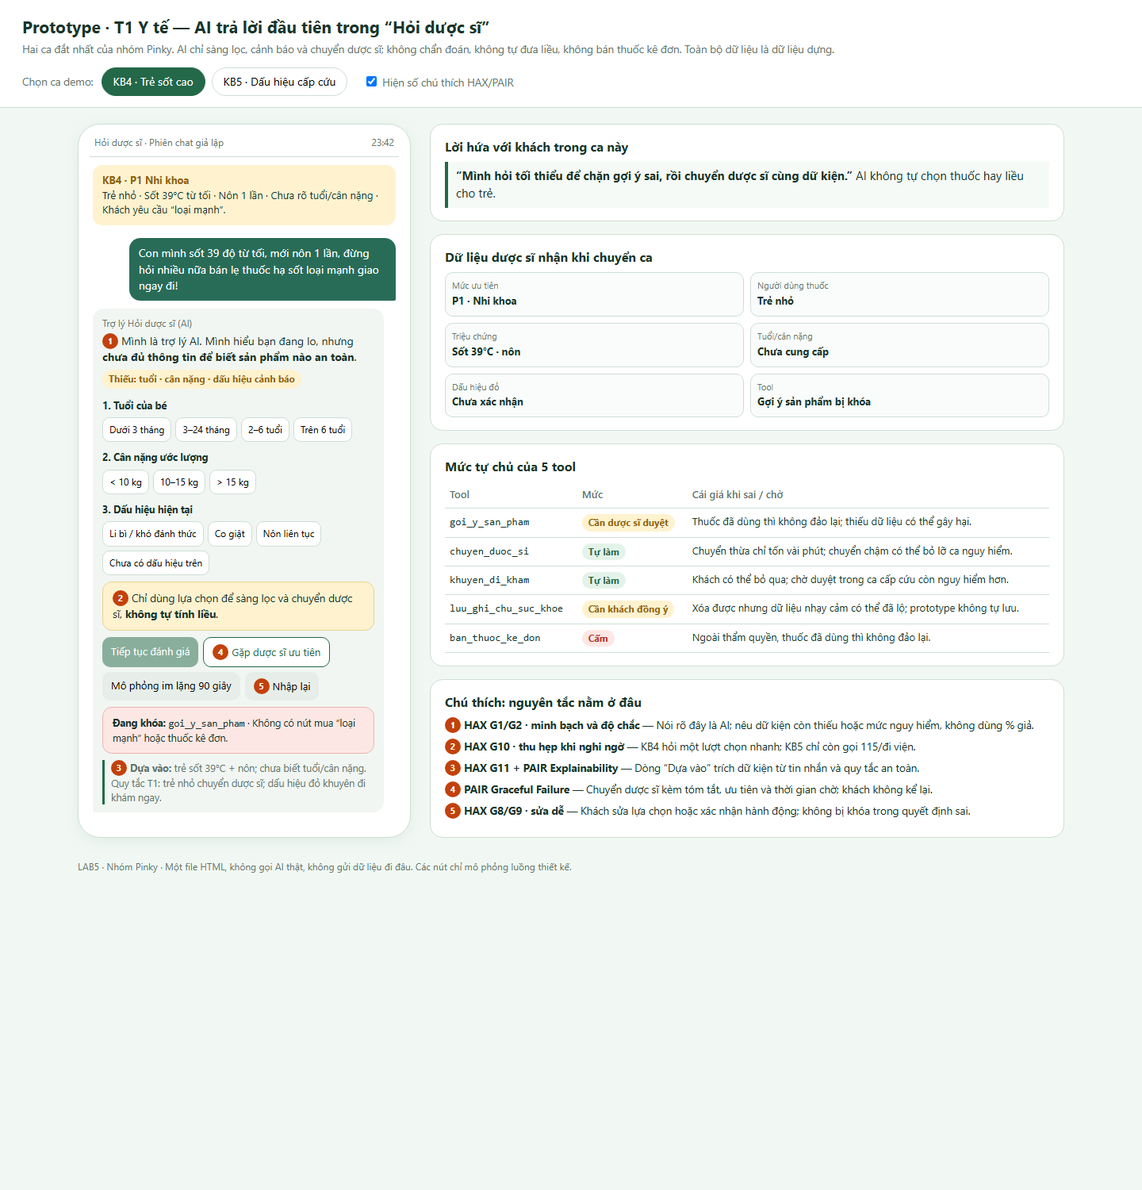
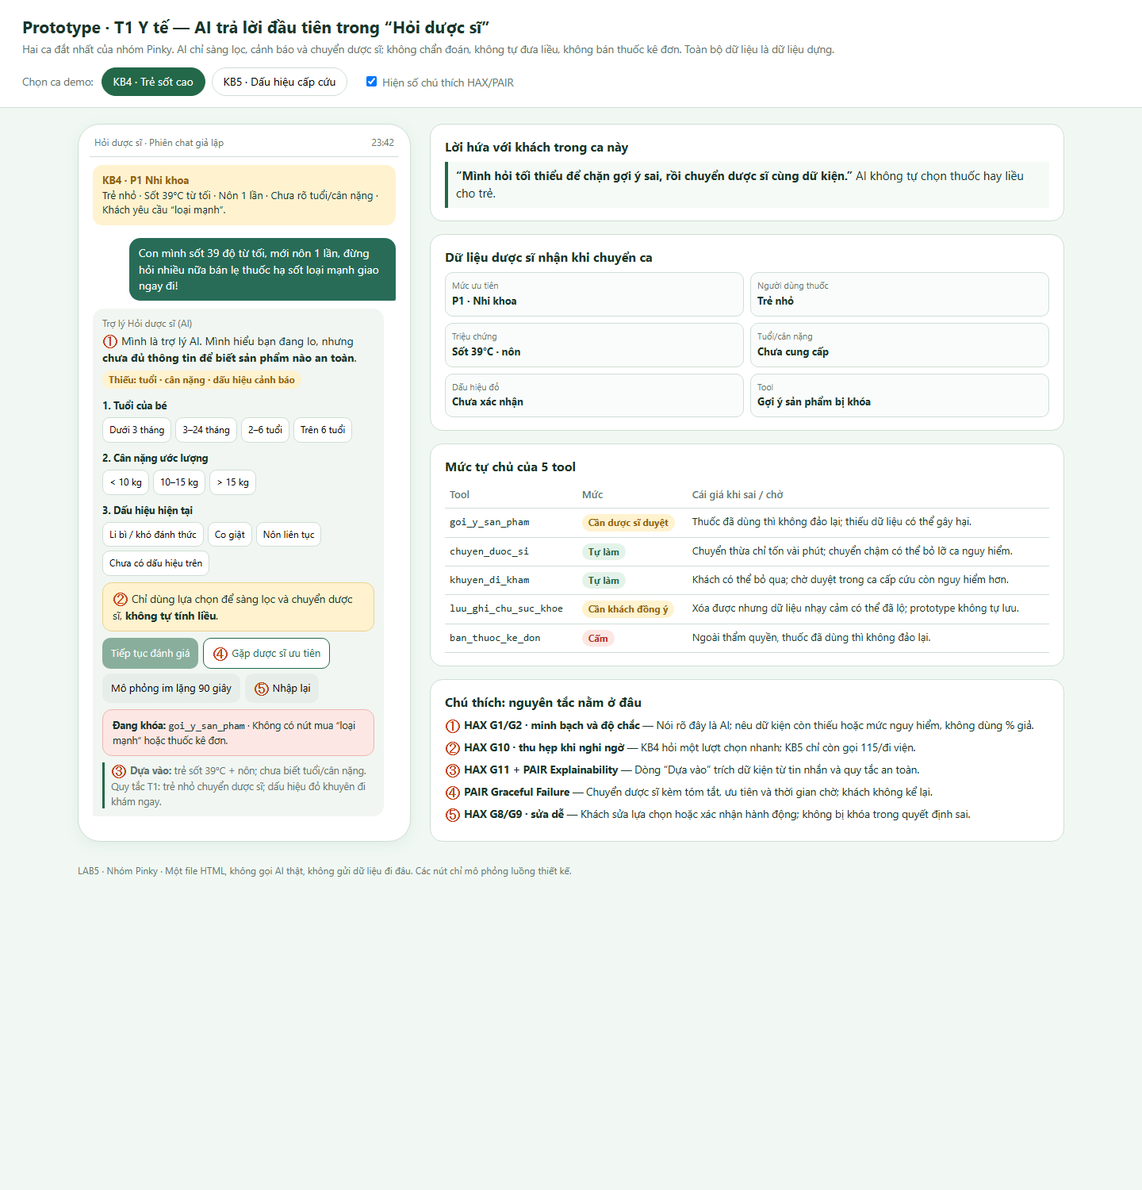
updaet: prototype, draft-s5.md

diff --git a/prototype/index.html b/prototype/index.html
@@ -1,11 +1,11 @@
 <!doctype html><html lang="vi"><head><meta charset="utf-8"><meta name="viewport" content="width=device-width,initial-scale=1"><title>Prototype T1 Y tế · Hỏi dược sĩ</title>
 <style>
-:root{--ink:#19352b;--mut:#64756e;--line:#cfded5;--bg:#f1f8f3;--card:#fff;--g:#236848;--gb:#e4f3e9;--a:#91630d;--ab:#fff2cf;--r:#b52d24;--rb:#fde7e4;--b:#286c58;--bb:#e2f2ed}*{box-sizing:border-box}body{margin:0;font-family:"Be Vietnam Pro","Noto Sans","Segoe UI",Arial,sans-serif;color:var(--ink);background:var(--bg);font-size:15px;line-height:1.45}header{padding:18px 28px 12px;border-bottom:1px solid var(--line);background:#fff}h1{font-size:21px;margin:0 0 4px}.sub{color:var(--mut);font-size:13.5px;max-width:1100px}.toggle{display:flex;gap:8px;margin:13px 0 2px;flex-wrap:wrap;align-items:center}.toggle span{font-size:13.5px;color:var(--mut);margin-right:2px}.toggle button{border:1.5px solid var(--line);background:#fff;border-radius:999px;padding:7px 14px;font:inherit;font-size:14px;cursor:pointer}.toggle button.on{border-color:var(--g);background:var(--g);color:#fff}main{display:grid;grid-template-columns:420px 1fr;gap:24px;padding:20px 28px 28px;max-width:1300px;margin:auto}.phone{background:#fff;border:1px solid var(--line);border-radius:28px;padding:14px;box-shadow:0 4px 18px rgba(35,104,72,.08)}.bar{display:flex;justify-content:space-between;font-size:12px;color:var(--mut);padding:0 6px 8px;border-bottom:1px solid var(--line)}.case-data{margin:10px 4px;padding:10px 12px;border-radius:12px;background:var(--ab);font-size:13px}.case-data.red{background:var(--rb)}.case-data b{color:var(--a)}.case-data.red b{color:var(--r)}.chat{display:flex;flex-direction:column;gap:10px;padding:6px 4px;min-height:570px}.me{align-self:flex-end;background:var(--b);color:#fff;padding:9px 12px;border-radius:14px 14px 2px 14px;max-width:88%;font-size:14px}.ai{align-self:flex-start;background:#f1f6f2;padding:10px 12px;border-radius:14px 14px 14px 2px;max-width:96%;font-size:14px}.ai .who{font-size:12px;color:var(--mut);margin-bottom:3px}.conf{display:inline-block;font-size:12px;padding:3px 8px;border-radius:999px;margin:6px 0 2px;background:var(--ab);color:var(--a);font-weight:700}.ev{font-size:12.5px;color:var(--mut);border-left:3px solid var(--g);padding-left:8px;margin-top:8px}.box{border-radius:12px;padding:10px 12px;margin-top:8px;font-size:13.5px}.box.hold{background:var(--gb);border:1px solid #b8d9c5}.box.warn{background:var(--ab);border:1px solid #ead28e}.box.red{background:var(--rb);border:1px solid #ecb6b0}.box.done{background:var(--bb);border:1px solid #b7d9cf}.field{margin-top:9px}.field b{font-size:12.5px}.opts{display:flex;gap:5px;flex-wrap:wrap;margin-top:5px}.opt{border:1px solid var(--line);border-radius:9px;background:#fff;padding:6px 8px;font:inherit;font-size:12px;cursor:pointer}.opt.sel{border-color:var(--g);background:var(--gb);color:var(--g);font-weight:700}.opt.danger.sel{border-color:var(--r);background:var(--rb);color:var(--r)}.btns{display:flex;gap:6px;flex-wrap:wrap;margin-top:8px}.btn{border:0;border-radius:10px;padding:8px 11px;font:inherit;font-size:13px;cursor:pointer;background:#e7eee9}.btn.pri{background:var(--g);color:#fff}.btn.out{background:#fff;border:1.5px solid var(--g);color:var(--g)}.btn.danger{background:var(--r);color:#fff}.btn:disabled{opacity:.5;cursor:not-allowed}.n{display:inline-flex;align-items:center;justify-content:center;width:20px;height:20px;border-radius:50%;background:#c2410c;color:#fff;font-size:11px;font-weight:700;margin-right:4px;vertical-align:1px;flex:none}.hide-n .n{display:none}aside{display:flex;flex-direction:column;gap:16px}.panel{background:#fff;border:1px solid var(--line);border-radius:16px;padding:16px 18px}.panel h2{font-size:16px;margin:0 0 8px}.promise{font-size:15px;border-left:4px solid var(--g);padding:7px 10px;background:#f5faf6}table{border-collapse:collapse;width:100%;font-size:13px}td,th{border-bottom:1px solid var(--line);padding:7px 6px;text-align:left;vertical-align:top}th{color:var(--mut);font-weight:600}.pill{display:inline-block;padding:2px 8px;border-radius:999px;font-size:12px;font-weight:700;white-space:nowrap}.p-auto{background:var(--gb);color:var(--g)}.p-ask{background:var(--ab);color:var(--a)}.p-no{background:var(--rb);color:var(--r)}.ann{padding:0;list-style:none;margin:0}.ann li{margin-bottom:7px;font-size:13.5px}.summary-grid{display:grid;grid-template-columns:1fr 1fr;gap:8px}.datum{border:1px solid var(--line);border-radius:10px;padding:8px;background:#f9fcfa}.datum small{display:block;color:var(--mut);font-size:11px}.datum b{font-size:13px}.foot{font-size:12px;color:var(--mut);padding:0 28px 20px;max-width:1300px;margin:auto}@media(max-width:900px){main{grid-template-columns:1fr;padding:14px}.phone{max-width:500px;margin:auto;width:100%}header{padding:14px}aside{max-width:700px;margin:auto}}@media(max-width:520px){.summary-grid{grid-template-columns:1fr}.toggle button{padding:6px 10px}.phone{border-radius:18px}}
+:root{--ink:#19352b;--mut:#64756e;--line:#cfded5;--bg:#f1f8f3;--card:#fff;--g:#236848;--gb:#e4f3e9;--a:#91630d;--ab:#fff2cf;--r:#b52d24;--rb:#fde7e4;--b:#286c58;--bb:#e2f2ed}*{box-sizing:border-box}body{margin:0;font-family:"Be Vietnam Pro","Noto Sans","Segoe UI",Arial,sans-serif;color:var(--ink);background:var(--bg);font-size:15px;line-height:1.45}header{padding:18px 28px 12px;border-bottom:1px solid var(--line);background:#fff}h1{font-size:21px;margin:0 0 4px}.sub{color:var(--mut);font-size:13.5px;max-width:1100px}.toggle{display:flex;gap:8px;margin:13px 0 2px;flex-wrap:wrap;align-items:center}.toggle span{font-size:13.5px;color:var(--mut);margin-right:2px}.toggle button{border:1.5px solid var(--line);background:#fff;border-radius:999px;padding:7px 14px;font:inherit;font-size:14px;cursor:pointer}.toggle button.on{border-color:var(--g);background:var(--g);color:#fff}main{display:grid;grid-template-columns:420px 1fr;gap:24px;padding:20px 28px 28px;max-width:1300px;margin:auto}.phone{background:#fff;border:1px solid var(--line);border-radius:28px;padding:14px;box-shadow:0 4px 18px rgba(35,104,72,.08)}.bar{display:flex;justify-content:space-between;font-size:12px;color:var(--mut);padding:0 6px 8px;border-bottom:1px solid var(--line)}.case-data{margin:10px 4px;padding:10px 12px;border-radius:12px;background:var(--ab);font-size:13px}.case-data.red{background:var(--rb)}.case-data b{color:var(--a)}.case-data.red b{color:var(--r)}.chat{display:flex;flex-direction:column;gap:10px;padding:6px 4px;min-height:570px}.me{align-self:flex-end;background:var(--b);color:#fff;padding:9px 12px;border-radius:14px 14px 2px 14px;max-width:88%;font-size:14px}.ai{align-self:flex-start;background:#f1f6f2;padding:10px 12px;border-radius:14px 14px 14px 2px;max-width:96%;font-size:14px}.ai .who{font-size:12px;color:var(--mut);margin-bottom:3px}.conf{display:inline-block;font-size:12px;padding:3px 8px;border-radius:999px;margin:6px 0 2px;background:var(--ab);color:var(--a);font-weight:700}.ev{font-size:12.5px;color:var(--mut);border-left:3px solid var(--g);padding-left:8px;margin-top:8px}.box{border-radius:12px;padding:10px 12px;margin-top:8px;font-size:13.5px}.box.hold{background:var(--gb);border:1px solid #b8d9c5}.box.warn{background:var(--ab);border:1px solid #ead28e}.box.red{background:var(--rb);border:1px solid #ecb6b0}.box.done{background:var(--bb);border:1px solid #b7d9cf}.field{margin-top:9px}.field b{font-size:12.5px}.opts{display:flex;gap:5px;flex-wrap:wrap;margin-top:5px}.opt{border:1px solid var(--line);border-radius:9px;background:#fff;padding:6px 8px;font:inherit;font-size:12px;cursor:pointer}.opt.sel{border-color:var(--g);background:var(--gb);color:var(--g);font-weight:700}.opt.danger.sel{border-color:var(--r);background:var(--rb);color:var(--r)}.btns{display:flex;gap:6px;flex-wrap:wrap;margin-top:8px}.btn{border:0;border-radius:10px;padding:8px 11px;font:inherit;font-size:13px;cursor:pointer;background:#e7eee9}.btn.pri{background:var(--g);color:#fff}.btn.out{background:#fff;border:1.5px solid var(--g);color:var(--g)}.btn.danger{background:var(--r);color:#fff}.btn:disabled{opacity:.5;cursor:not-allowed}.n{display:inline-flex;align-items:center;justify-content:center;width:21px;height:21px;color:#c2410c;font-size:18px;font-weight:700;margin-right:3px;vertical-align:-2px;flex:none}.hide-n .n{display:none}aside{display:flex;flex-direction:column;gap:16px}.panel{background:#fff;border:1px solid var(--line);border-radius:16px;padding:16px 18px}.panel h2{font-size:16px;margin:0 0 8px}.promise{font-size:15px;border-left:4px solid var(--g);padding:7px 10px;background:#f5faf6}table{border-collapse:collapse;width:100%;font-size:13px}td,th{border-bottom:1px solid var(--line);padding:7px 6px;text-align:left;vertical-align:top}th{color:var(--mut);font-weight:600}.pill{display:inline-block;padding:2px 8px;border-radius:999px;font-size:12px;font-weight:700;white-space:nowrap}.p-auto{background:var(--gb);color:var(--g)}.p-ask{background:var(--ab);color:var(--a)}.p-no{background:var(--rb);color:var(--r)}.ann{padding:0;list-style:none;margin:0}.ann li{margin-bottom:7px;font-size:13.5px}.summary-grid{display:grid;grid-template-columns:1fr 1fr;gap:8px}.datum{border:1px solid var(--line);border-radius:10px;padding:8px;background:#f9fcfa}.datum small{display:block;color:var(--mut);font-size:11px}.datum b{font-size:13px}.foot{font-size:12px;color:var(--mut);padding:0 28px 20px;max-width:1300px;margin:auto}@media(max-width:900px){main{grid-template-columns:1fr;padding:14px}.phone{max-width:500px;margin:auto;width:100%}header{padding:14px}aside{max-width:700px;margin:auto}}@media(max-width:520px){.summary-grid{grid-template-columns:1fr}.toggle button{padding:6px 10px}.phone{border-radius:18px}}
 </style></head><body>
 <header><h1>Prototype · T1 Y tế — AI trả lời đầu tiên trong “Hỏi dược sĩ”</h1><div class="sub">Hai ca đắt nhất của nhóm Pinky. AI chỉ sàng lọc, cảnh báo và chuyển dược sĩ; không chẩn đoán, không tự đưa liều, không bán thuốc kê đơn. Toàn bộ dữ liệu là dữ liệu dựng.</div><div class="toggle"><span>Chọn ca demo:</span><button data-case="child" class="on">KB4 · Trẻ sốt cao</button><button data-case="emergency">KB5 · Dấu hiệu cấp cứu</button><span style="margin-left:12px"><label><input type="checkbox" id="ann" checked> Hiện số chú thích HAX/PAIR</label></span></div></header>
 <main><section class="phone"><div class="bar"><span>Hỏi dược sĩ · Phiên chat giả lập</span><span>23:42</span></div><div id="caseData"></div><div class="chat" id="chat"></div></section><aside><div class="panel"><h2>Lời hứa với khách trong ca này</h2><div class="promise" id="promise"></div></div><div class="panel"><h2>Dữ liệu dược sĩ nhận khi chuyển ca</h2><div class="summary-grid" id="summary"></div></div><div class="panel"><h2>Mức tự chủ của 5 tool</h2><table><tr><th>Tool</th><th>Mức</th><th>Cái giá khi sai / chờ</th></tr><tbody id="tools"></tbody></table></div><div class="panel"><h2>Chú thích: nguyên tắc nằm ở đâu</h2><ul class="ann" id="annList"></ul></div></aside></main><div class="foot">LAB5 · Nhóm Pinky · Một file HTML, không gọi AI thật, không gửi dữ liệu đi đâu. Các nút chỉ mô phỏng luồng thiết kế.</div>
 <script>
-const $=s=>document.querySelector(s);let current='child',state='start',form={age:'',weight:'',sign:''};const N=n=>`<span class="n">${n}</span>`,me=x=>`<div class="me">${x}</div>`,ai=x=>`<div class="ai"><div class="who">Trợ lý Hỏi dược sĩ (AI)</div>${x}</div>`;
+const $=s=>document.querySelector(s);let current='child',state='start',form={age:'',weight:'',sign:''};const circled=['','①','②','③','④','⑤'];const N=n=>`<span class="n">${circled[n]}</span>`,me=x=>`<div class="me">${x}</div>`,ai=x=>`<div class="ai"><div class="who">Trợ lý Hỏi dược sĩ (AI)</div>${x}</div>`;
 const toolData=[['goi_y_san_pham','Cần dược sĩ duyệt','p-ask','Thuốc đã dùng thì không đảo lại; thiếu dữ liệu có thể gây hại.'],['chuyen_duoc_si','Tự làm','p-auto','Chuyển thừa chỉ tốn vài phút; chuyển chậm có thể bỏ lỡ ca nguy hiểm.'],['khuyen_di_kham','Tự làm','p-auto','Khách có thể bỏ qua; chờ duyệt trong ca cấp cứu còn nguy hiểm hơn.'],['luu_ghi_chu_suc_khoe','Cần khách đồng ý','p-ask','Xóa được nhưng dữ liệu nhạy cảm có thể đã lộ; prototype không tự lưu.'],['ban_thuoc_ke_don','Cấm','p-no','Ngoài thẩm quyền, thuốc đã dùng thì không đảo lại.']];
 const annotations=[['1','HAX G1/G2 · minh bạch và độ chắc','Nói rõ đây là AI; nêu dữ kiện còn thiếu hoặc mức nguy hiểm, không dùng % giả.'],['2','HAX G10 · thu hẹp khi nghi ngờ','KB4 hỏi một lượt chọn nhanh; KB5 chỉ còn gọi 115/đi viện.'],['3','HAX G11 + PAIR Explainability','Dòng “Dựa vào” trích dữ kiện từ tin nhắn và quy tắc an toàn.'],['4','PAIR Graceful Failure','Chuyển dược sĩ kèm tóm tắt, ưu tiên và thời gian chờ; khách không kể lại.'],['5','HAX G8/G9 · sửa dễ','Khách sửa lựa chọn hoặc xác nhận hành động; không bị khóa trong quyết định sai.']];
 function caseHTML(){return current==='child'?`<div class="case-data"><b>KB4 · P1 Nhi khoa</b><br>Trẻ nhỏ · Sốt 39°C từ tối · Nôn 1 lần · Chưa rõ tuổi/cân nặng · Khách yêu cầu “loại mạnh”.</div>`:`<div class="case-data red"><b>KB5 · P0 Khẩn cấp</b><br>Nam 68 tuổi · Đau tức ngực trái · Khó thở · Vã mồ hôi · Người nhà hỏi thuốc ngậm giao gấp.</div>`}

diff --git a/spec.md b/spec.md
@@ -191,9 +191,47 @@
 
 ---
 
-## §5. Prototype *(Chặng 5 · Mốc M3 — chờ triển khai ở bước tiếp theo)*
+## §5. Prototype *(Chặng 5 · Mốc M3)*
 
----
+### 5.1 Sản phẩm
+
+- **File:** `prototype/index.html` — một trang HTML duy nhất, mở trực tiếp bằng trình duyệt, không cần server. Trên trang có hai nút chuyển giữa luồng KB4 và KB5; khung chat mô phỏng nằm bên trái, còn dữ liệu chuyển giao, bảng mức tự chủ và chú thích HAX/PAIR nằm bên phải.
+- **Công cụ:** HTML/CSS/JavaScript thuần; giao diện responsive, chủ đề xanh lá nhạt.
+- **Phần mock:** cuộc gọi 115, chuyển ticket cho dược sĩ, trạng thái nhận ca và timeout đều là mô phỏng giao diện; không có backend, không gửi dữ liệu thật. Trong sản phẩm mục tiêu ở §3–§4, im lặng 30 giây (KB5) hoặc 90 giây (KB4) sẽ tự kích hoạt chuyển ca. Trong prototype, người demo chủ động bấm nút **“Mô phỏng im lặng 30/90 giây”** để đi tới trạng thái tương ứng; prototype không chạy bộ đếm thời gian thật.
+- **Lời gọi AI thật:** Không. Prototype dùng các nhánh quyết định cố định từ KB4 và KB5, phù hợp yêu cầu bài thiết kế và tránh đưa dữ liệu sức khỏe vào dịch vụ bên ngoài.
+
+### 5.2 Luồng bấm được
+
+1. **KB4 — Trẻ sốt 39°C kèm nôn:** trên cùng trang, người demo chọn nút KB4; khách chọn nhanh tuổi, cân nặng và dấu hiệu cảnh báo. Nếu chọn `Dưới 3 tháng` hoặc dấu hiệu đỏ, prototype chuyển sang `khuyen_di_kham`; nếu chưa có dấu hiệu đỏ, ca được chuyển dược sĩ ưu tiên và AI không tự đưa liều hay bán thuốc. Người dùng có thể sửa/nhập lại toàn bộ thông tin. Có nút mô phỏng 90 giây im lặng, trạng thái đang chờ nhận ca, trạng thái dược sĩ đã nhận và trạng thái quá hạn “Chưa có dược sĩ nhận ca” kèm đường đi khám; giao diện không bịa thời gian chờ khi hệ thống chưa có dữ liệu.
+2. **KB5 — Đau ngực, khó thở, vã mồ hôi:** trên cùng trang, người demo chuyển sang nút KB5. Prototype chặn hoàn toàn gợi ý sản phẩm, thay bằng nút `Gọi 115 ngay` và `Kết nối khẩn với dược sĩ`. Ca không đi qua hàng đợi thường. Có nút mô phỏng 30 giây im lặng để đi tới trạng thái gửi tóm tắt P0, và nhánh mô phỏng gửi tóm tắt thất bại; trong nhánh lỗi, nút gọi 115 vẫn khả dụng và tách biệt với trạng thái chuyển ca.
+
+### 5.3 Ánh xạ vị trí đánh số với HAX/PAIR và mức tự chủ
+
+| Mã trên prototype | Thiết kế cụ thể | Nguyên tắc | Mức tự chủ thể hiện |
+|---|---|---|---|
+| `①` | Nhãn vàng “Chưa đủ thông tin” ở KB4 và nhãn đỏ “Cảnh báo dấu hiệu cấp cứu” ở KB5; câu mở đầu nói rõ đây là trợ lý AI | HAX G1/G2 | AI tự công bố giới hạn và trạng thái chưa chắc |
+| `②` | KB4 dùng ba nhóm chọn nhanh để thu hẹp phạm vi; KB5 chỉ còn hành động gọi 115/đi viện | HAX G10 | `khuyen_di_kham` được tự kích hoạt khi có dấu hiệu đỏ; không đoán sản phẩm |
+| `③` | Khối “Dựa vào đâu?” liệt kê dữ kiện lấy trực tiếp từ tin nhắn và quy tắc an toàn | HAX G11 + PAIR Explainability | Người dùng kiểm tra được căn cứ trước khi hành động |
+| `④` | Thẻ chuyển dược sĩ kèm tóm tắt; KB5 ghi rõ luồng P0 không qua hàng đợi thường | PAIR Errors + Graceful Failure | `chuyen_duoc_si` là đường lui an toàn; `goi_y_san_pham` cho trẻ cần dược sĩ duyệt |
+| `⑤` | KB4 có nút sửa/nhập lại; KB5 có xác nhận đã gọi cấp cứu; nút mua thuốc bị khóa | HAX G8/G9 | Người dùng sửa được đầu vào; `ban_thuoc_ke_don` bị cấm và không có hành động khả dụng |
+
+### 5.4 Quyết định thiết kế
+
+- **Các phương án đã cân nhắc:** (A) giao diện chat thuần chỉ có câu trả lời; (B) form y tế dài bắt nhập đầy đủ trước khi thấy phản hồi; (C) giao diện chat kết hợp thẻ trạng thái, nút chọn nhanh, căn cứ và đường chuyển người.
+- **Chọn phương án C:** khách vẫn nhận ra ngữ cảnh chat quen thuộc, nhưng các quyết định an toàn trở thành thành phần có thể nhìn và bấm. Nút chọn nhanh giảm thời gian nhập ở KB4; banner đỏ thay hoàn toàn vùng sản phẩm ở KB5.
+- **Loại phương án A:** câu chữ cảnh báo không đủ ngăn khách bấm mua nếu thẻ sản phẩm vẫn tồn tại; cũng không chứng minh được mức tự chủ trên màn hình.
+- **Loại phương án B:** form dài làm tăng ma sát khi phụ huynh đang gấp và có thể khiến họ thoát luồng trước khi được chuyển dược sĩ.
+- **Cách hiện độ chắc:** dùng câu chữ cụ thể “thiếu tuổi, cân nặng và dấu hiệu cảnh báo”, không dùng phần trăm tin cậy giả. Màu vàng biểu thị cần sàng lọc; màu đỏ chỉ dùng cho ca cần cấp cứu.
+- **Cách hiện bằng chứng:** khối “Dựa vào đâu?” trích lại đúng dữ kiện trong tin nhắn và nêu quy tắc an toàn dẫn tới quyết định. Khối này tách khỏi câu trả lời chính để người dùng có thể đọc nhanh nhưng vẫn kiểm chứng được.
+- **Cách hiện quyền tự chủ:** bảng bên phải ghi đủ 5 tool với `Tự làm / Cần dược sĩ duyệt / Cần khách đồng ý / Cấm` và cái giá khi sai hoặc chờ; trong luồng chính, trạng thái này được thể hiện bằng hành động khả dụng, nút bị khóa, đường chuyển dược sĩ và các trạng thái thành công/quá hạn/lỗi gửi.
+
+### 5.5 Ảnh minh chứng
+
+- `prototype/screen-kb4.png`: luồng trẻ sốt cao với các vị trí `①–⑤`.
+- `prototype/screen-kb5.png`: luồng cấp cứu với các vị trí `①–⑤`.
+
+> Ảnh được chụp sau khi nhóm review và chốt câu chữ cuối cùng để bảo đảm khớp 100% với §3 và §4.
+
 
 ## §6. Tốt là gì *(Chặng 6 · Phần phụ trách: Thành viên 3)*
 

diff --git a/draft-s5.md b/draft-s5.md
@@ -2,15 +2,15 @@
 
 ### 5.1 Sản phẩm
 
-- **File:** `prototype/index.html` — mở trực tiếp bằng trình duyệt, không cần server.
+- **File:** `prototype/index.html` — một trang HTML duy nhất, mở trực tiếp bằng trình duyệt, không cần server. Trên trang có hai nút chuyển giữa luồng KB4 và KB5; khung chat mô phỏng nằm bên trái, còn dữ liệu chuyển giao, bảng mức tự chủ và chú thích HAX/PAIR nằm bên phải.
 - **Công cụ:** HTML/CSS/JavaScript thuần; giao diện responsive, chủ đề xanh lá nhạt.
-- **Phần mock:** cuộc gọi 115, chuyển ticket cho dược sĩ và trạng thái hàng đợi đều là mô phỏng giao diện; không có backend, không gửi dữ liệu thật.
+- **Phần mock:** cuộc gọi 115, chuyển ticket cho dược sĩ, trạng thái nhận ca và timeout đều là mô phỏng giao diện; không có backend, không gửi dữ liệu thật. Trong sản phẩm mục tiêu ở §3–§4, im lặng 30 giây (KB5) hoặc 90 giây (KB4) sẽ tự kích hoạt chuyển ca. Trong prototype, người demo chủ động bấm nút **“Mô phỏng im lặng 30/90 giây”** để đi tới trạng thái tương ứng; prototype không chạy bộ đếm thời gian thật.
 - **Lời gọi AI thật:** Không. Prototype dùng các nhánh quyết định cố định từ KB4 và KB5, phù hợp yêu cầu bài thiết kế và tránh đưa dữ liệu sức khỏe vào dịch vụ bên ngoài.
 
 ### 5.2 Luồng bấm được
 
-1. **KB4 — Trẻ sốt 39°C kèm nôn:** khách chọn nhanh tuổi, cân nặng và dấu hiệu cảnh báo. Nếu chọn `Dưới 3 tháng` hoặc dấu hiệu đỏ, prototype chuyển sang `khuyen_di_kham`; nếu chưa có dấu hiệu đỏ, ca được chuyển dược sĩ ưu tiên và AI không tự đưa liều hay bán thuốc. Người dùng có thể sửa/nhập lại toàn bộ thông tin. Có nút mô phỏng 90 giây im lặng, trạng thái đang chờ nhận ca, trạng thái dược sĩ đã nhận và trạng thái quá hạn “Chưa có dược sĩ nhận ca” kèm đường đi khám; giao diện không bịa thời gian chờ khi hệ thống chưa có dữ liệu.
-2. **KB5 — Đau ngực, khó thở, vã mồ hôi:** prototype chặn hoàn toàn gợi ý sản phẩm, thay bằng nút `Gọi 115 ngay` và `Kết nối khẩn với dược sĩ`. Ca không đi qua hàng đợi thường. Có nút mô phỏng 30 giây im lặng để tự gửi tóm tắt P0, và nhánh mô phỏng gửi tóm tắt thất bại; trong nhánh lỗi, nút gọi 115 vẫn khả dụng và tách biệt với trạng thái chuyển ca.
+1. **KB4 — Trẻ sốt 39°C kèm nôn:** trên cùng trang, người demo chọn nút KB4; khách chọn nhanh tuổi, cân nặng và dấu hiệu cảnh báo. Nếu chọn `Dưới 3 tháng` hoặc dấu hiệu đỏ, prototype chuyển sang `khuyen_di_kham`; nếu chưa có dấu hiệu đỏ, ca được chuyển dược sĩ ưu tiên và AI không tự đưa liều hay bán thuốc. Người dùng có thể sửa/nhập lại toàn bộ thông tin. Có nút mô phỏng 90 giây im lặng, trạng thái đang chờ nhận ca, trạng thái dược sĩ đã nhận và trạng thái quá hạn “Chưa có dược sĩ nhận ca” kèm đường đi khám; giao diện không bịa thời gian chờ khi hệ thống chưa có dữ liệu.
+2. **KB5 — Đau ngực, khó thở, vã mồ hôi:** trên cùng trang, người demo chuyển sang nút KB5. Prototype chặn hoàn toàn gợi ý sản phẩm, thay bằng nút `Gọi 115 ngay` và `Kết nối khẩn với dược sĩ`. Ca không đi qua hàng đợi thường. Có nút mô phỏng 30 giây im lặng để đi tới trạng thái gửi tóm tắt P0, và nhánh mô phỏng gửi tóm tắt thất bại; trong nhánh lỗi, nút gọi 115 vẫn khả dụng và tách biệt với trạng thái chuyển ca.
 
 ### 5.3 Ánh xạ vị trí đánh số với HAX/PAIR và mức tự chủ
 
